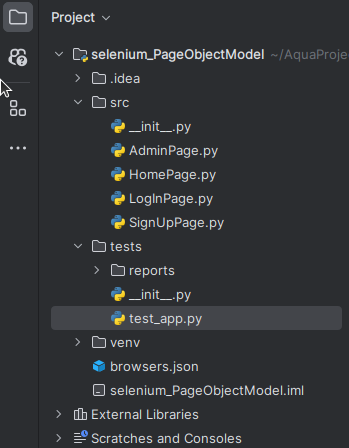
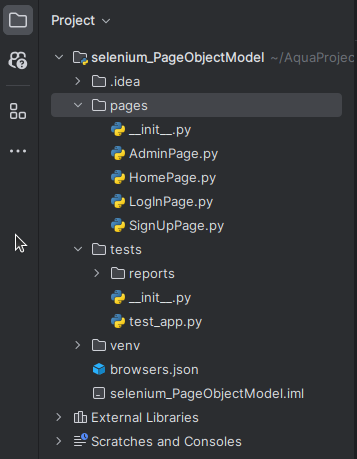
modify : Arborescence_du_projet_avec_POM.png

diff --git a/Comment_Intégrer_Une_Application_Dans_Selenium.md b/Comment_Intégrer_Une_Application_Dans_Selenium.md
@@ -27,9 +27,13 @@ Par défaut, les scripts de tests se situent dans le fichier test.py.
 Pour des raisons pratiques, nous allons créer un répertoire nommé ``tests`` dans lesquels tous les scripts de test de notre application WEB vont figurer.
 Le répertoire ``reports`` contiendra les rapports de tests générés par pytest dont nous parlerons à la dernière partie de cette documentation.
 
-La documentation officielle de [Selenium](https://www.selenium.dev/documentation/) recommande d'utiliser le design pattern [Page Object Model](https://www.selenium.dev/documentation/test_practices/encouraged/page_object_models/) pour écrire des tests. Ce design pattern permet de séparer la logique de test de la logique de l'application. Il permet également de réduire la duplication de code et de faciliter la maintenance des tests.
-Voici à quoi ressemble l'arborescence du projet avec le design pattern Page Object Model : 
-![image](https://raw.githubusercontent.com/AloyseSECK/DOCUMENTATIONS/main/Images/Arborescence_du_projet_avec_POM.png)
+La documentation officielle de [Selenium](https://www.selenium.dev/documentation/) recommande d'utiliser le design pattern [Page Object Model (POM)](https://www.selenium.dev/documentation/test_practices/encouraged/page_object_models/) pour écrire des tests. Ce design pattern permet de séparer la logique de test de la logique de l'application. Il permet également de réduire la duplication de code et de faciliter la maintenance des tests.
+Voici à quoi ressemble l'arborescence du projet avec ce design pattern :    
+
+![image](https://github.com/AloyseSECK/DOCUMENTATIONS/blob/main/Images/Selenium%20DOCS%20img/Arborescence_du_projet_avec_POM.png?raw=true)   
+<u>  **Figure 2 : Arborescence du projet avec le design pattern POM** </u>
+Comme illustré dans la figure ci-dessus, le répertoire 
+
 
 Pour écrire un test, il suffit de créer un fichier python dans le répertoire ``tests``. Voici un exemple de test qui permet de vérifier si le titre de la page d'accueil de notre application est correct.
 
